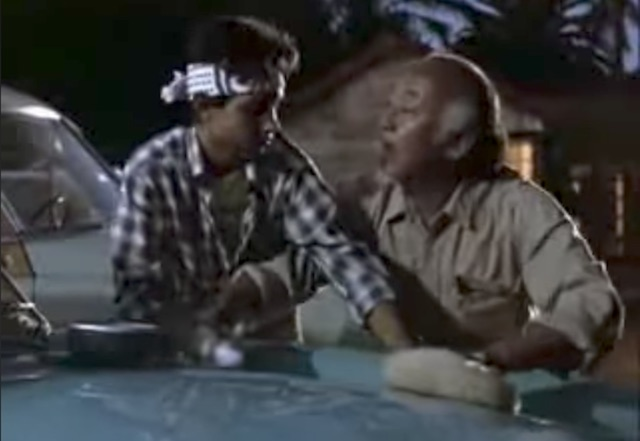
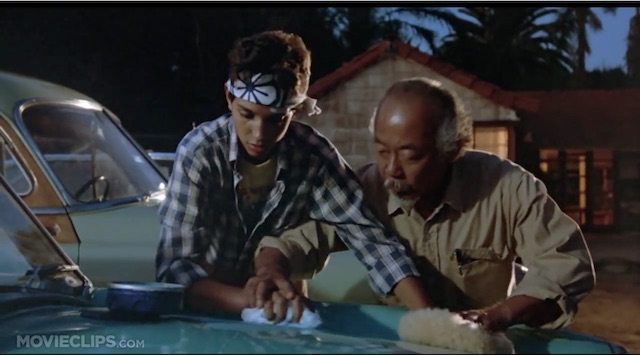
minor changes

diff --git a/2017/08/02/efficient-developer-master-your-ide/index.html b/2017/08/02/efficient-developer-master-your-ide/index.html
@@ -130,11 +130,13 @@
 					</div>
 				 <div class="entry-content-media-attribution">
 					 <small>Image attribution:</small>
-						 <small><i>Wax on, wax off</i> - Master Miyagi, <a href="https://en.wikipedia.org/wiki/The_Karate_Kid">The Karate Kid</a></small>
+						 <small><i>Wax on, wax off</i> - Master Miyagi, <a href="https://youtu.be/SMCsXl9SGgY?t=1m18s">The Karate Kid</a></small>
 
 				 </div>
 
-					<div class="entry-content"><p>As a developer, you are going to spend thousands of hours working with your IDE or editor of choice. </p><p>It is your main tool, you need to know how to get the most out of it.</p><p>Using your IDE 8 hours a day is not enough, you need to make a conscious and deliberate effort to master it. </p><p>You must learn:</p>
+					<div class="entry-content"><p>As a developer, you are going to spend thousands of hours working with your IDE or editor of choice. It is your main tool, you need to know how to get the most out of it.</p><p>Using your IDE 8 hours a day is not enough, you need to make a conscious and deliberate effort to master it. As a wise man once said:</p>
+<blockquote><p><a href="https://youtu.be/SMCsXl9SGgY?t=1m17s">Wax on, Wax off</a> <cite>Master Miyagi, The Karate Kid.</cite></p>
+</blockquote><p>You must learn:</p>
 <ol>
   <li>The shortcuts for all the functionality that you regularly use. You should rarely need to use your mouse.</li>
   <li>Its features: read the release notes, watch online tutorials or follow some expert that blogs about it.</li>

diff --git a/2017/08/01/efficient-developer-disable-notifications/index.html b/2017/08/01/efficient-developer-disable-notifications/index.html
@@ -130,7 +130,7 @@
 					</div>
 				 
 
-					<div class="entry-content"><p>As part of my job as a reluctant architect, I have the privilege of teaching a “developer productivity” course, where I outline basic points that have helped me become a more <a href="http://codingwithempathy.com/2017/01/24/efficiency-effectiveness-teams/">efficient</a> developer during my career.</p><p>I want to share one of those points today:</p><h3>Disable the email pop up notifications.</h3><p>You don’t even want to see the number of unread emails in your taskbar. </p><p>In fact, you don’t need to see any notifications. Disable them all.</p><p>Don’t let them break your concentration.</p>
+					<div class="entry-content"><p>As part of my job as a reluctant architect, I have the privilege of teaching a “developer productivity” course, where I outline basic points that have helped me become a more <a href="http://codingwithempathy.com/2017/01/24/efficiency-effectiveness-teams/">efficient</a> developer during my career.</p><p>I want to share one of those points today, one that will have a huge productivity impact with minimal effort:</p><h3>Disable the email pop up notifications.</h3><p>You don’t even want to see the number of unread emails in your taskbar. </p><p>In fact, you don’t need to see any notifications. Disable them all.</p><p>Don’t let them break your concentration.</p>
 <hr /><p>More about efficiency:</p>
 <ol>
   <li>Disable notifications (you are here)</li>

diff --git a/index.html b/index.html
@@ -235,7 +235,7 @@
 				 
 				 <div>
 					 <small>Image attribution:</small>
-						 <small><i>Wax on, wax off</i> - Master Miyagi, <a href="https://en.wikipedia.org/wiki/The_Karate_Kid">The Karate Kid</a></small>
+						 <small><i>Wax on, wax off</i> - Master Miyagi, <a href="https://youtu.be/SMCsXl9SGgY?t=1m18s">The Karate Kid</a></small>
 
 				 </div>
 

diff --git a/latest-posts/0/index.html b/latest-posts/0/index.html
@@ -235,7 +235,7 @@
 				 
 				 <div>
 					 <small>Image attribution:</small>
-						 <small><i>Wax on, wax off</i> - Master Miyagi, <a href="https://en.wikipedia.org/wiki/The_Karate_Kid">The Karate Kid</a></small>
+						 <small><i>Wax on, wax off</i> - Master Miyagi, <a href="https://youtu.be/SMCsXl9SGgY?t=1m18s">The Karate Kid</a></small>
 
 				 </div>
 
